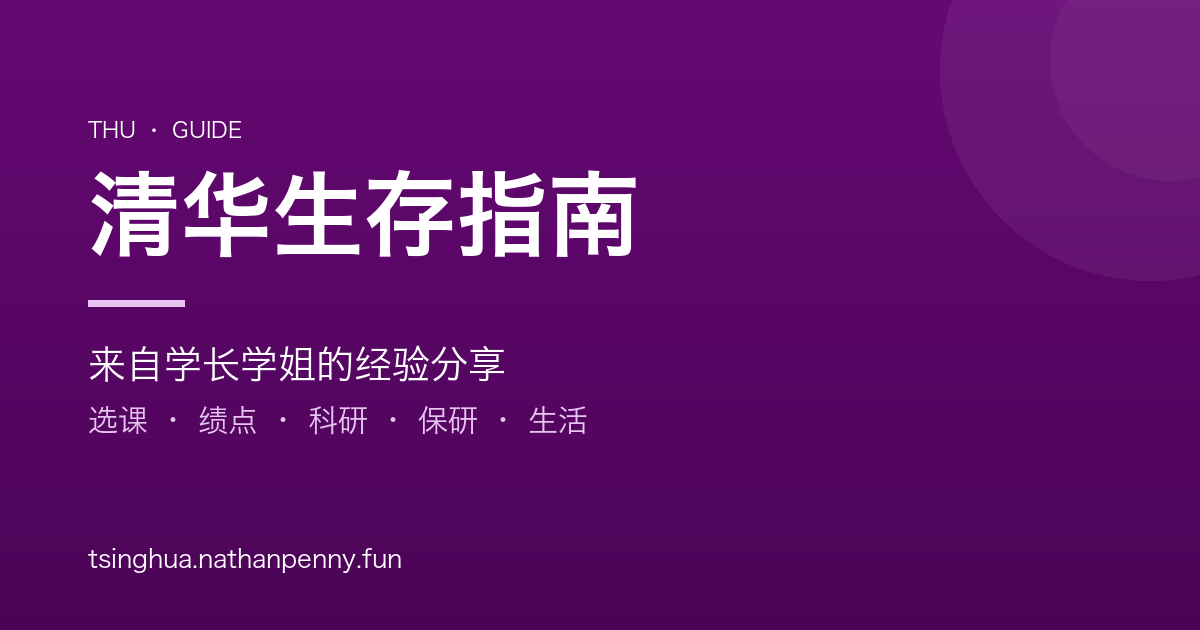
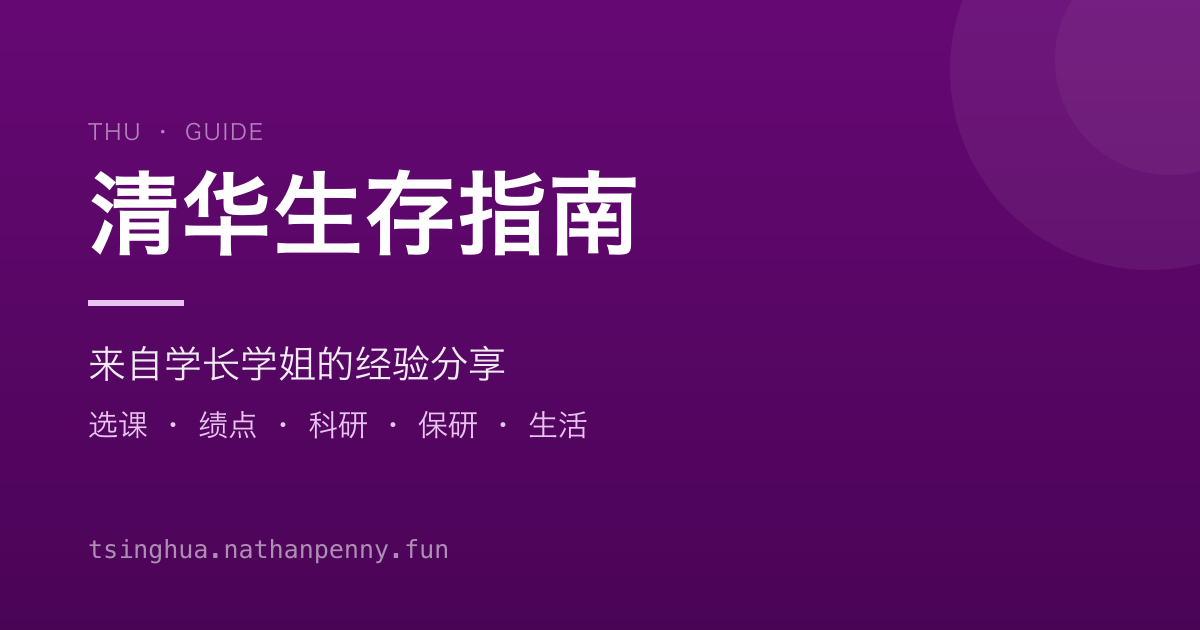
docs: 加操作速查表与文章模板，并去掉 OG 图的 Python 依赖
- README 顶部新增「我想做 X，该改哪里」速查表，任务导向，改完提交自动部署
- 新增 src/content/docs/_template.md：可复制的文章模板（_ 前缀让 Starlight 不发布它），
  已实测「复制模板 → 放进已有分类 → 自动进侧边栏、自动生成标签页」
- scripts/check-content.ts 跳过 _ 开头的文件，避免把模板当成文章检查

修复一个真问题：npm run og 之前依赖 PATH 里的 python3 + Pillow，
而本机 PATH 里是 miniconda 的 python3，没有 Pillow，命令直接失败。
改用 sharp（Astro 自带依赖）重写为 scripts/generate-og.mjs，
现在只要 npm install 过就能跑，删掉 generate-og.py。

文档补充实测到的网络限制：校园网内 github.com 网页端超时，
但 SSH 通道、api.github.com、gh CLI 都正常 —— 所以本地改 + git push 是可靠路径。
'"编辑此页"' 链接本身没写错，是网络问题。

diff --git a/scripts/check-content.ts b/scripts/check-content.ts
@@ -114,6 +114,10 @@ let currentFile = '';
 const docs: Doc[] = [];
 
 for (const file of walk(DOCS_DIR, (p) => ['.md', '.mdx'].includes(extname(p)))) {
+  // Starlight 会忽略以 _ 开头的文件（例如 _template.md 模板），
+  // 它们不参与构建，也不应该被当成文章检查。
+  if (basename(file).startsWith('_')) continue;
+
   currentFile = file;
   const raw = readFileSync(file, 'utf8');
   const { data } = parseFrontmatter(raw);

diff --git a/README.md b/README.md
@@ -6,6 +6,54 @@
 
 ---
 
+## 我想做 X，该改哪里？
+
+日常 90% 的操作都在下面这张表里。**改完提交推送，CI 会自动构建部署，不需要手动做任何部署动作。**
+
+| 我想…… | 改哪里 | 怎么做 |
+| --- | --- | --- |
+| **写一篇新经验帖** | `src/content/docs/<分类>/` 新建 `.md` | 复制 [`src/content/docs/_template.md`](./src/content/docs/_template.md) 当模板。**文件名用英文小写加连字符**，中文标题写在 `title` 里 |
+| **改一篇已有文章** | 对应 `.md` 文件 | 本地改后 push；或用网页端点「编辑此页 / 纠错」（需代理，见下） |
+| **加一个校内网址** | `src/data/links.ts` | 加一条记录。**亲自点开确认后填 `verified: '2026-09-30'`**，页面上的「待核对」角标才会消失 |
+| **加一份可下载资料** | `src/data/resources.ts` | `url` 填网盘链接，`code` 填提取码。**文件本体不要进仓库**，只放外链 |
+| **加一个新分类** | `astro.config.mjs` 的 `sidebar` | 在 `src/content/docs/` 下建目录，然后往 `sidebar` 数组里加一项 `{ autogenerate: { directory: '目录名' } }` |
+| **调侧边栏顺序** | 文章的 `sidebar.order` | 数字小的在前。**同目录内不要重复**，否则内容检查会报错 |
+| **改站点标题 / 描述 / 联系方式** | `astro.config.mjs` | 顶部有 `SITE`、`REPO` 等常量 |
+| **改分享卡片图** | `scripts/generate-og.mjs` 顶部文案 | 改完跑 `npm run og`，**记得提交 `public/og.png`** |
+| **标一篇内容过期了** | 文章 frontmatter | `status: outdated`（红色警告）或更新 `reviewedAt`（橙色自动提醒） |
+| **改「多久算过期」** | `content-policy.json` | 改 `staleAfterMonths`。**站点看门狗和 CI 检查同时生效** |
+| **看哪些内容还欠着** | 跑 `npm run check:content` | 会输出「债务总账」：待补作者 / 待核对页面 / 待核对链接 / 待补充资料 |
+| **回滚一次线上发布** | 本地跑 wrangler | `npx wrangler versions list` 找到版本 ID，再 `npx wrangler rollback <ID>` |
+
+**没有本地环境也能干活**（但要注意下面那条网络限制）：有了 GitHub 账号就能在网页上点「编辑此页」改内容，提交后会自动生成 PR，机器人会把预览链接评论到 PR 上，你确认没问题再合并。
+
+> ### ⚠ 校园网里 GitHub 网页端打不开
+> 实测（2026-09-30，清华校园网）：
+>
+> | 通道 | 结果 |
+> | --- | --- |
+> | `git push` / `git clone`（SSH，22 或 443 端口） | ✅ 通 |
+> | `api.github.com` | ✅ 通（1.2s） |
+> | **`github.com` 网页端** | ❌ **超时** |
+> | `raw.githubusercontent.com` | ❌ 超时 |
+>
+> 所以**在校园网内，网页端那条路走不通，会卡在打开网页这一步**。可靠的做法是：
+> - **本地改 + `git push`**（本仓库的全部提交都是这么推上去的）
+> - 或者开代理后再用网页端
+> - 站点上的「编辑此页 / 纠错」链接指向 `github.com`，**在校园网内点开也会超时**，不是链接写错了
+
+### 三种不同的改动方式，按你的习惯选
+
+| 方式 | 适合 | 代价 |
+| --- | --- | --- |
+| **本地 `npm run dev` + `git push`** | 写长文、调排版、批量改链接 | **校园网里唯一稳定可用的方式**；要装 Node 和依赖（一次性） |
+| **GitHub 网页直接改** | 改错别字、更新链接 | 需要代理；校内直连打不开 github.com |
+| **只提 Issue** | 不会 Git、只想提供素材 | 同样需要能打开 github.com（或让有代理的人代提） |
+
+详细写作规范见站点上的[怎么贡献一篇经验帖](https://tsinghua.nathanpenny.fun/contribute/)，运维细节见 [HANDOVER.md](./HANDOVER.md)，内容路线图见 [OUTLINE.md](./OUTLINE.md)。
+
+---
+
 ## 技术栈
 
 刻意选了最省心的组合：**没有后端、没有数据库、没有用户系统**。
@@ -60,7 +108,7 @@ npm run deploy             # 构建并部署到 Cloudflare Workers
 | **按阶段 / 按标签浏览** | `src/pages/stages/`、`src/pages/tags/` | 从 frontmatter 的 `stage` / `tags` **自动聚合**，不需要手工维护分类 |
 | **内容检查** | `scripts/check-content.ts` | 抓构建抓不到的问题：站内死链、中文文件名、未来日期、order 冲突、占位符 |
 | **结构化数据** | `src/components/Head.astro` | 每页注入 JSON-LD `Article`。署名是占位符时署成「本站」这个组织，**不编造人名** |
-| **分享卡片图** | `scripts/generate-og.py` | 生成 1200×630 的 `public/og.png`，脚本可复现 |
+| **分享卡片图** | `scripts/generate-og.mjs` | 生成 1200×630 的 `public/og.png`，脚本可复现 |
 | **统一阈值** | `content-policy.json` | 看门狗和内容检查脚本读同一份配置，避免两边阈值漂移 |
 
 ---
@@ -109,7 +157,7 @@ Tsinghua-guide/
 │  └─ styles/custom.css      主题色（清华紫）与中文排版
 ├─ scripts/
 │  ├─ check-content.ts       内容检查（CI 里跑，会阻断部署）
-│  └─ generate-og.py         生成分享卡片图
+│  └─ generate-og.mjs        生成分享卡片图
 ├─ content-policy.json       ★ 时效阈值（看门狗与检查脚本共用）
 ├─ wrangler.jsonc            正式站配置
 └─ wrangler.preview.jsonc    PR 预览站配置

diff --git a/src/content/docs/_template.md b/src/content/docs/_template.md
@@ -1,0 +1,56 @@
+---
+# ⚠ 这是一个模板文件，不会被发布。
+# Starlight 会忽略所有以 _ 开头的文件，所以你可以放心把它留在仓库里当参考。
+# 用法：复制这个文件到对应目录，改成英文文件名，然后逐项填写下面的字段。
+# 详细的字段说明见 /contribute/ 页面，或仓库根目录的 README.md。
+
+title: 这里写中文标题
+description: 一句话摘要。会出现在搜索结果和分享卡片里，也是读者决定点不点开的关键
+stage: ['全阶段']            # 可多选：本科新生 / 本科低年级 / 本科高年级 / 研究生 / 全阶段
+tags: ['标签一', '标签二']    # 会生成 /tags/<标签>/ 聚合页，尽量复用已有标签
+authors: ['你的昵称（xx 院系 xx 级）']  # 可以写真名、昵称，或者写「匿名」
+status: draft                # draft 待核对 / stable 已定稿 / outdated 已过期
+
+# reviewedAt 是最需要认真对待的字段：
+#   填了 = 你亲自逐条核实过文中提到的事实（规则、时间、流程），现在是对的
+#   不填 = 页面底部显示「尚未标注」，读者知道这篇没经过人工核对
+#   超过 6 个月没重新核对，页面顶部会自动出现橙色「可能已过期」提醒
+# 制度性内容没查证过就不要填，同时把 status 保持为 draft。
+# reviewedAt: 2026-09-30
+
+summary: 列表卡片上显示的一句话（比 description 更短，没填就退回用 description）
+banner:
+  content: 本文涉及的制度性细节尚未逐条核对，请以官方通知为准。
+
+sidebar:
+  order: 10                  # 同目录内的排序，小的在前。注意别和同目录其他文章重复
+---
+
+<!--
+写作原则（详见 /contribute/）：
+  1. 先给结论，再讲原因 —— 读者是在手机上找答案
+  2. 写你亲历的 —— 「我发过 7 封邮件只回了 2 封」比「要有耐心」有用
+  3. 区分事实与建议 —— 规则类内容写明「以官方为准」
+  4. 不确定就标「待核对」，不要编一个看起来合理的数字 ← 本站最重要的一条规矩
+  5. 有具体时间点的内容要标年份，因为规则会变
+
+可用的排版语法：
+  :::tip  :::note  :::caution  :::danger      带标题写成 :::tip[标题]
+  # 二级标题  ## 三级标题
+  | 表格 | 表格 |
+  - [ ] 复选框
+  站内链接写成站内绝对路径，例如 [绩点](/academics/gpa/) —— npm run check:content 会验证它是否存在
+-->
+
+## 先给结论
+
+把最重要的一句话放在这里。读者可能只看这一段。
+
+## 正文
+
+……
+
+:::caution[需要核对的地方]
+如果这段里有你不确定的具体数字、时间或流程，用提示块明确标出来，而不是猜一个。
+本站应对不确定信息的方式是显式标记，不是编造。
+:::
